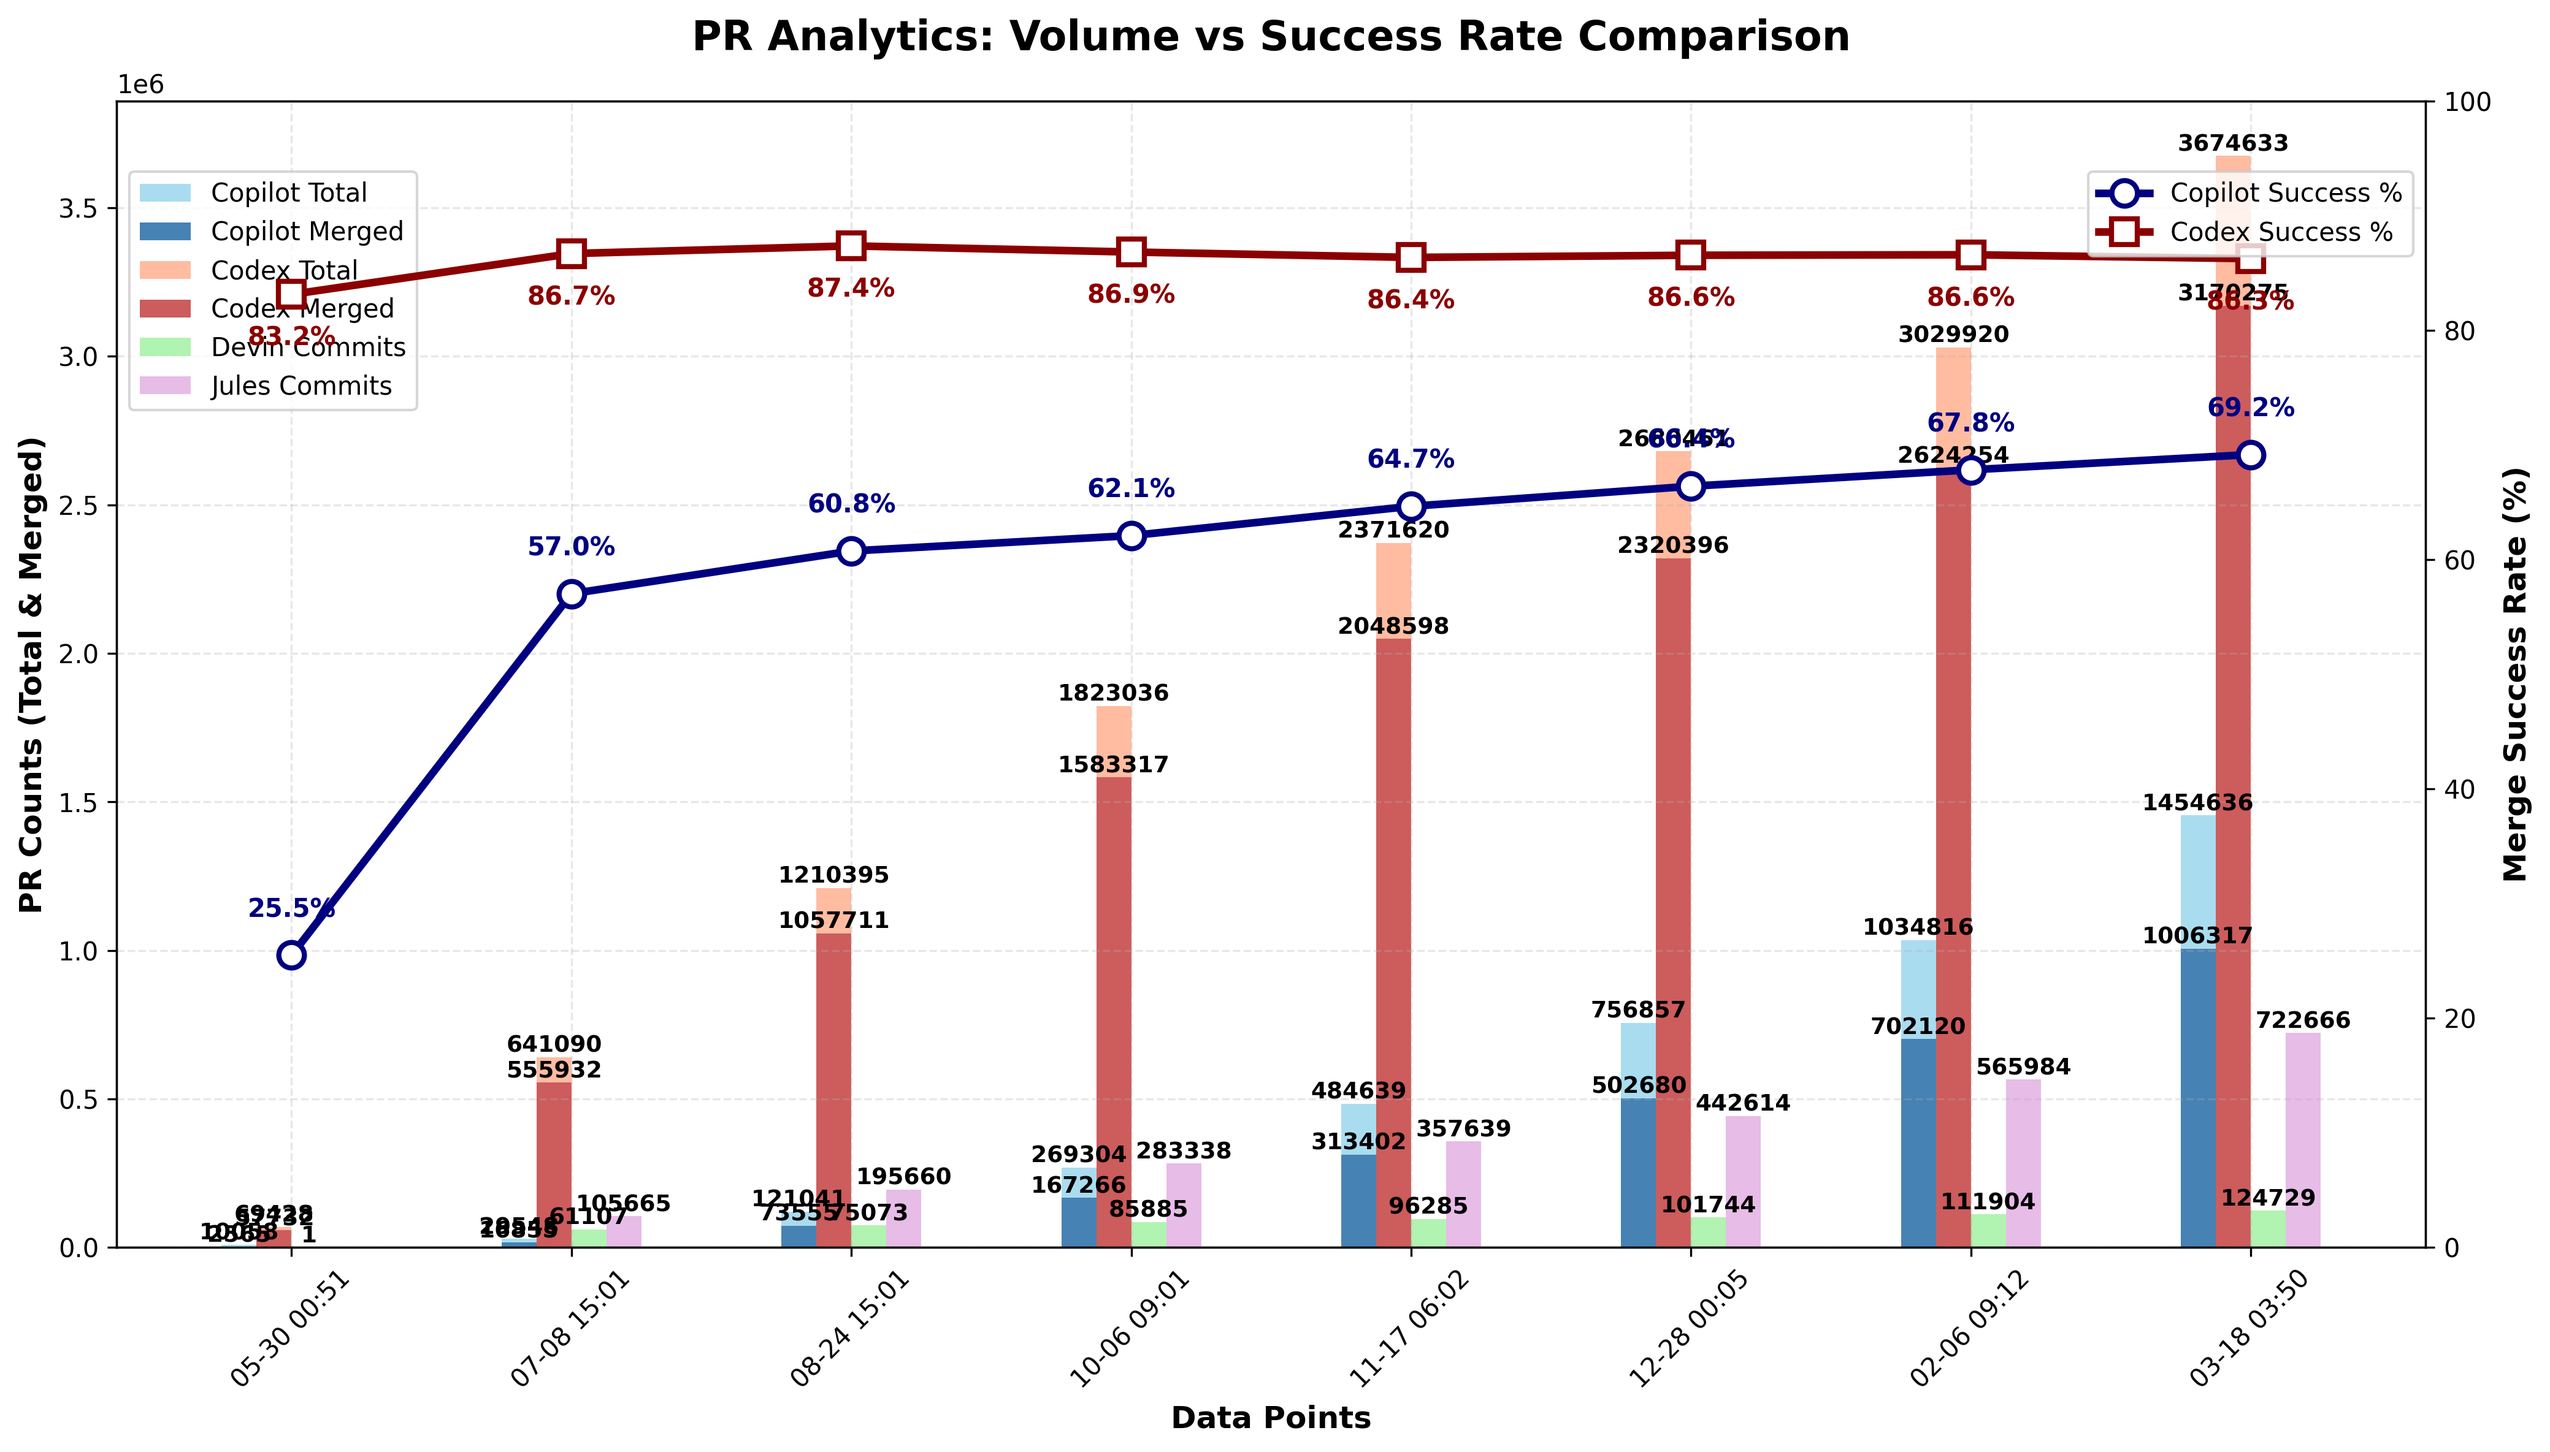
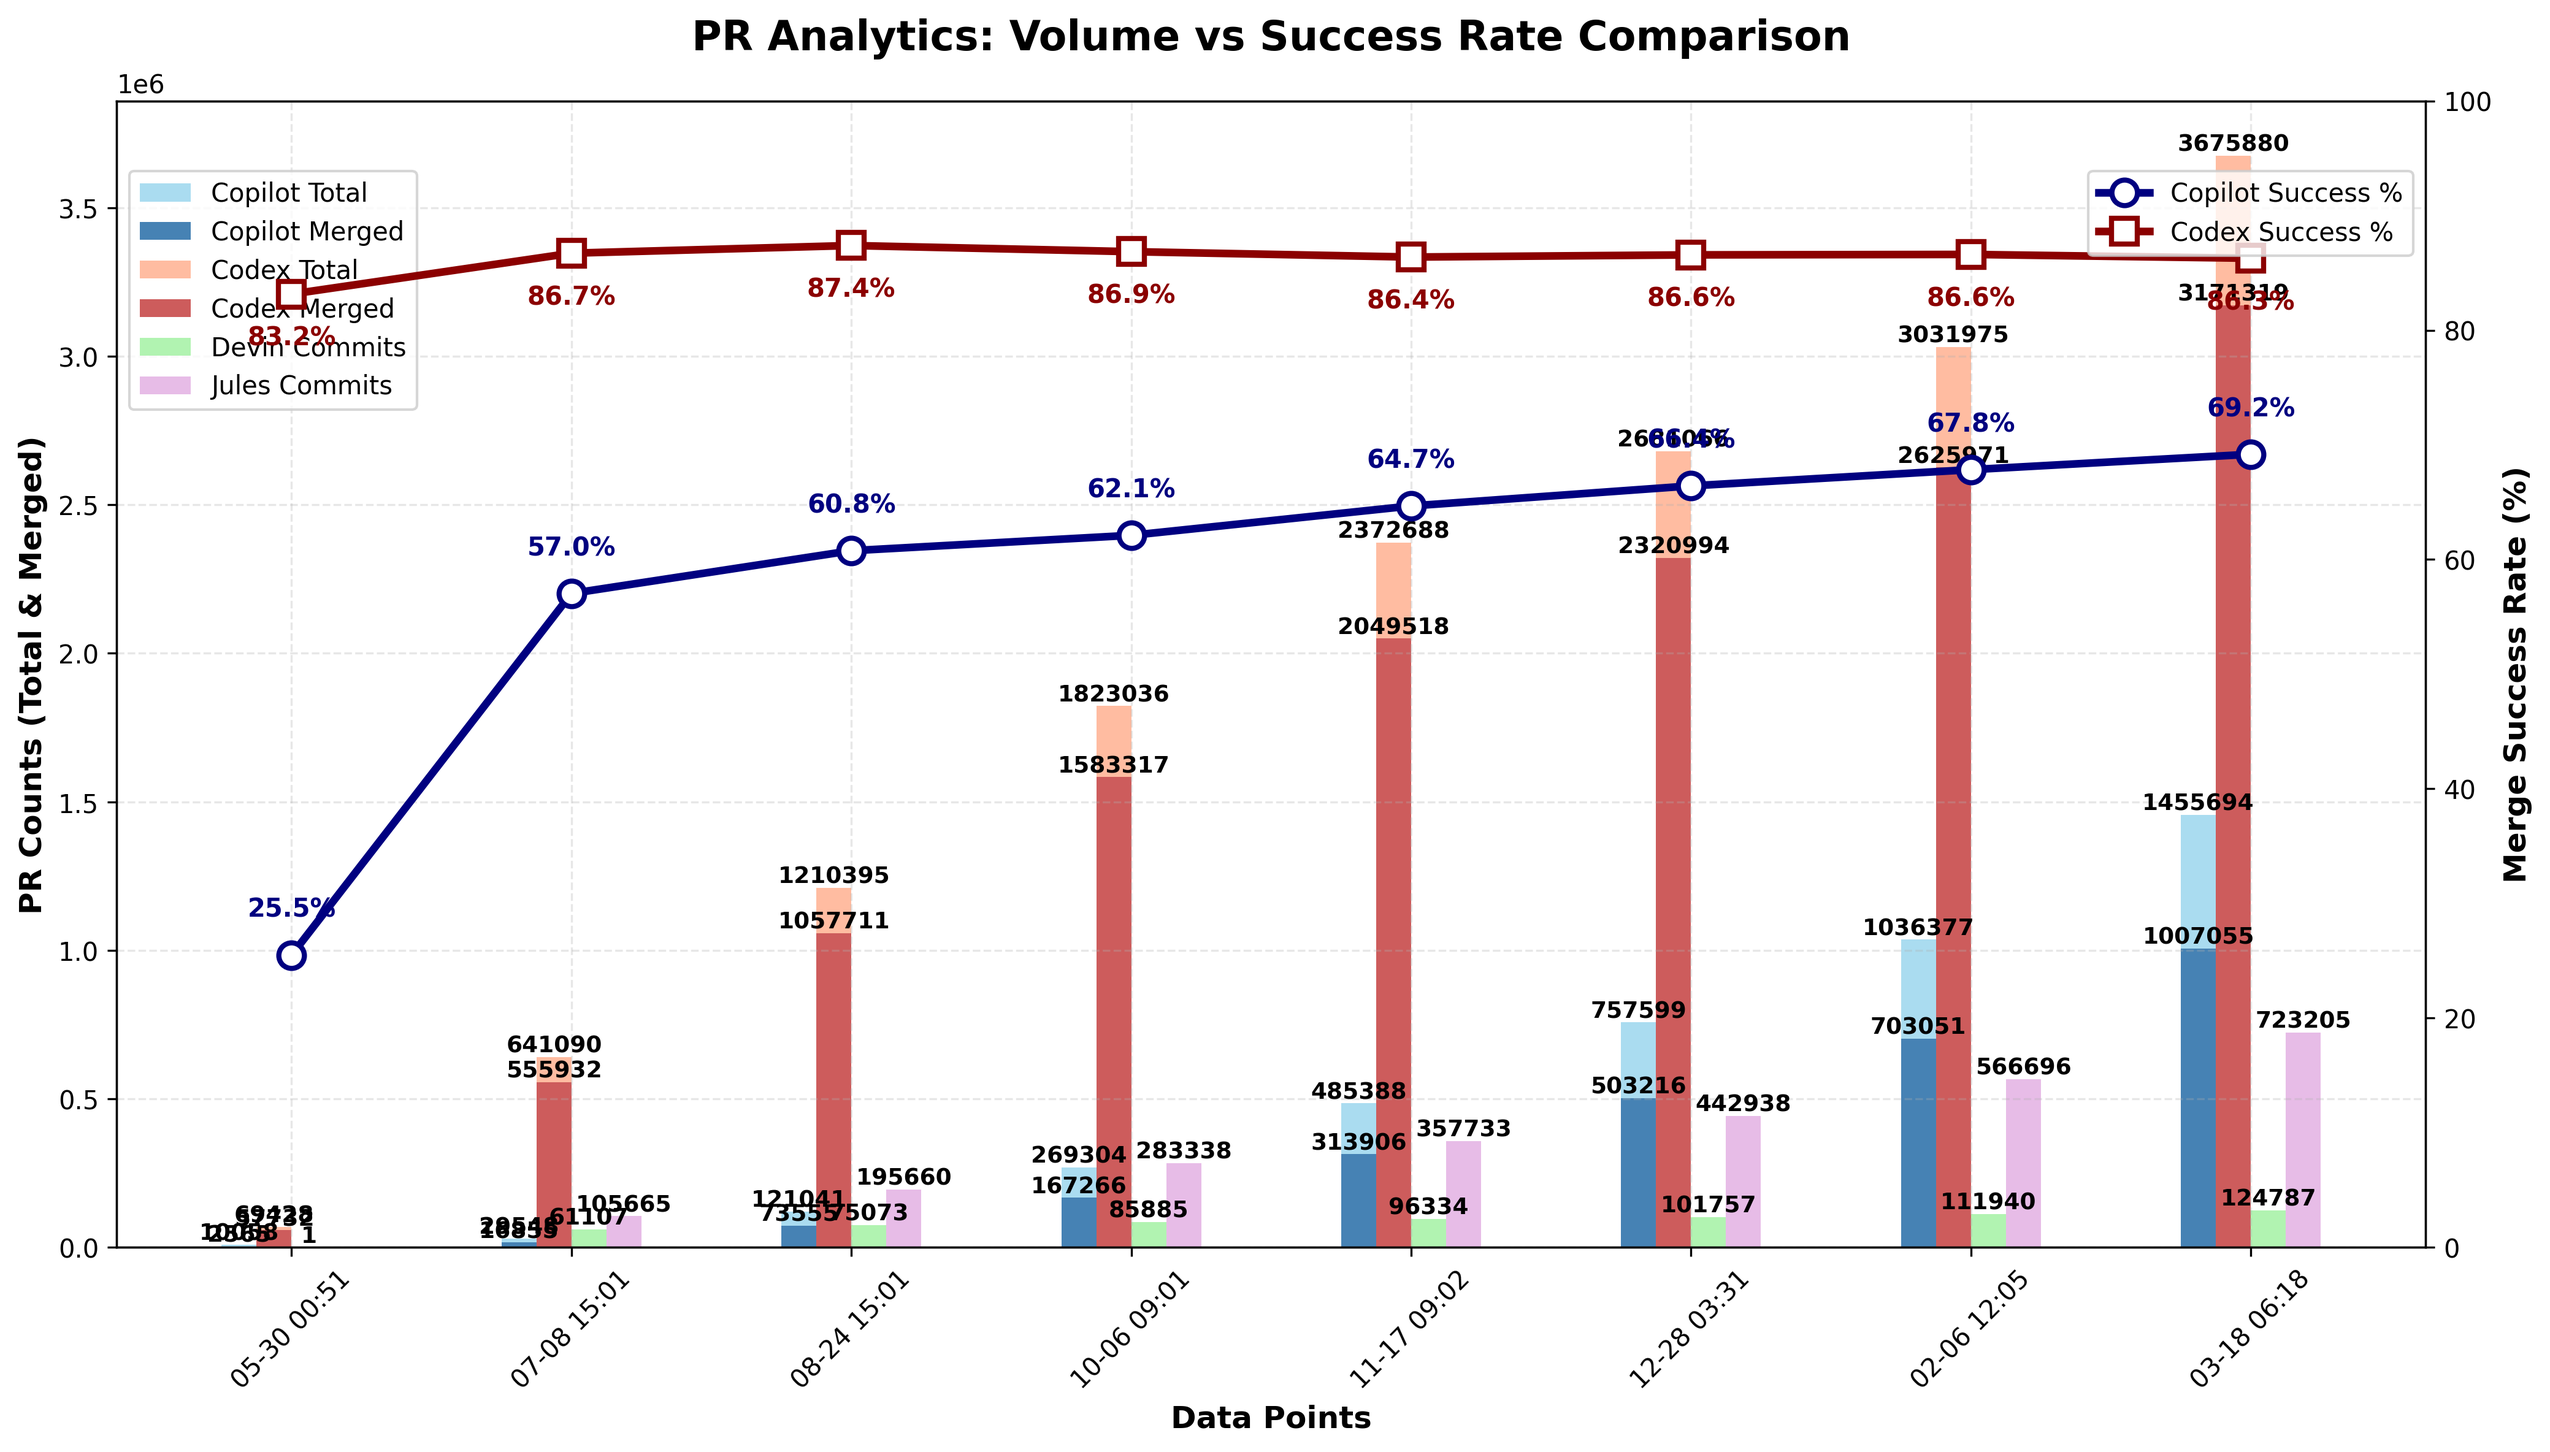
chore: update PR‑approval chart

diff --git a/docs/index.html b/docs/index.html
@@ -2265,6 +2265,7 @@
                         <td>N/A</td>
                         <td>N/A</td>
                         <td>N/A</td>
+                        <td>N/A</td>
                     </tr>
                     <tr>
                         <td>Codex</td>
@@ -4488,27 +4489,28 @@
                         <td>N/A</td>
                         <td>N/A</td>
                         <td>N/A</td>
+                        <td>N/A</td>
                     </tr>
                 <tr>
                         <td>Devin</td>
                         <td>N/A</td>
                         <td>N/A</td>
                         <td>N/A</td>
-                        <td>124,729</td>
+                        <td>124,787</td>
                     </tr>
                     <tr>
                         <td>Jules</td>
                         <td>N/A</td>
                         <td>N/A</td>
                         <td>N/A</td>
-                        <td>722,666</td>
+                        <td>723,205</td>
                     </tr>
                     </tbody>
             </table>
         </section>
 
         <footer>
-            <p>Last updated: <span id="last-updated">March 18, 2026 03:50 UTC</span></p>
+            <p>Last updated: <span id="last-updated">March 18, 2026 06:18 UTC</span></p>
             <p><a href="https://github.com/aavetis/ai-pr-watcher">View on GitHub</a></p>
         </footer>
     </div>

diff --git a/README.md b/README.md
@@ -19,7 +19,7 @@ Explore the GitHub search queries used:
 
 | Service | Total PRs | Merged PRs | Merge Rate | Total Commits |
 | ------- | --------- | ---------- | ---------- | ------------- |
-| Copilot | 1,454,636 | 1,006,317 | 69.18% | N/A           |
-| Codex   | 3,674,633 | 3,170,275 | 86.27% | N/A           |
-| Devin   | N/A       | N/A        | N/A        | 124,729 |
-| Jules   | N/A       | N/A        | N/A        | 722,666 |
+| Copilot | 1,455,694 | 1,007,055 | 69.18% | N/A           |
+| Codex   | 3,675,880 | 3,171,319 | 86.27% | N/A           |
+| Devin   | N/A       | N/A        | N/A        | 124,787 |
+| Jules   | N/A       | N/A        | N/A        | 723,205 |
